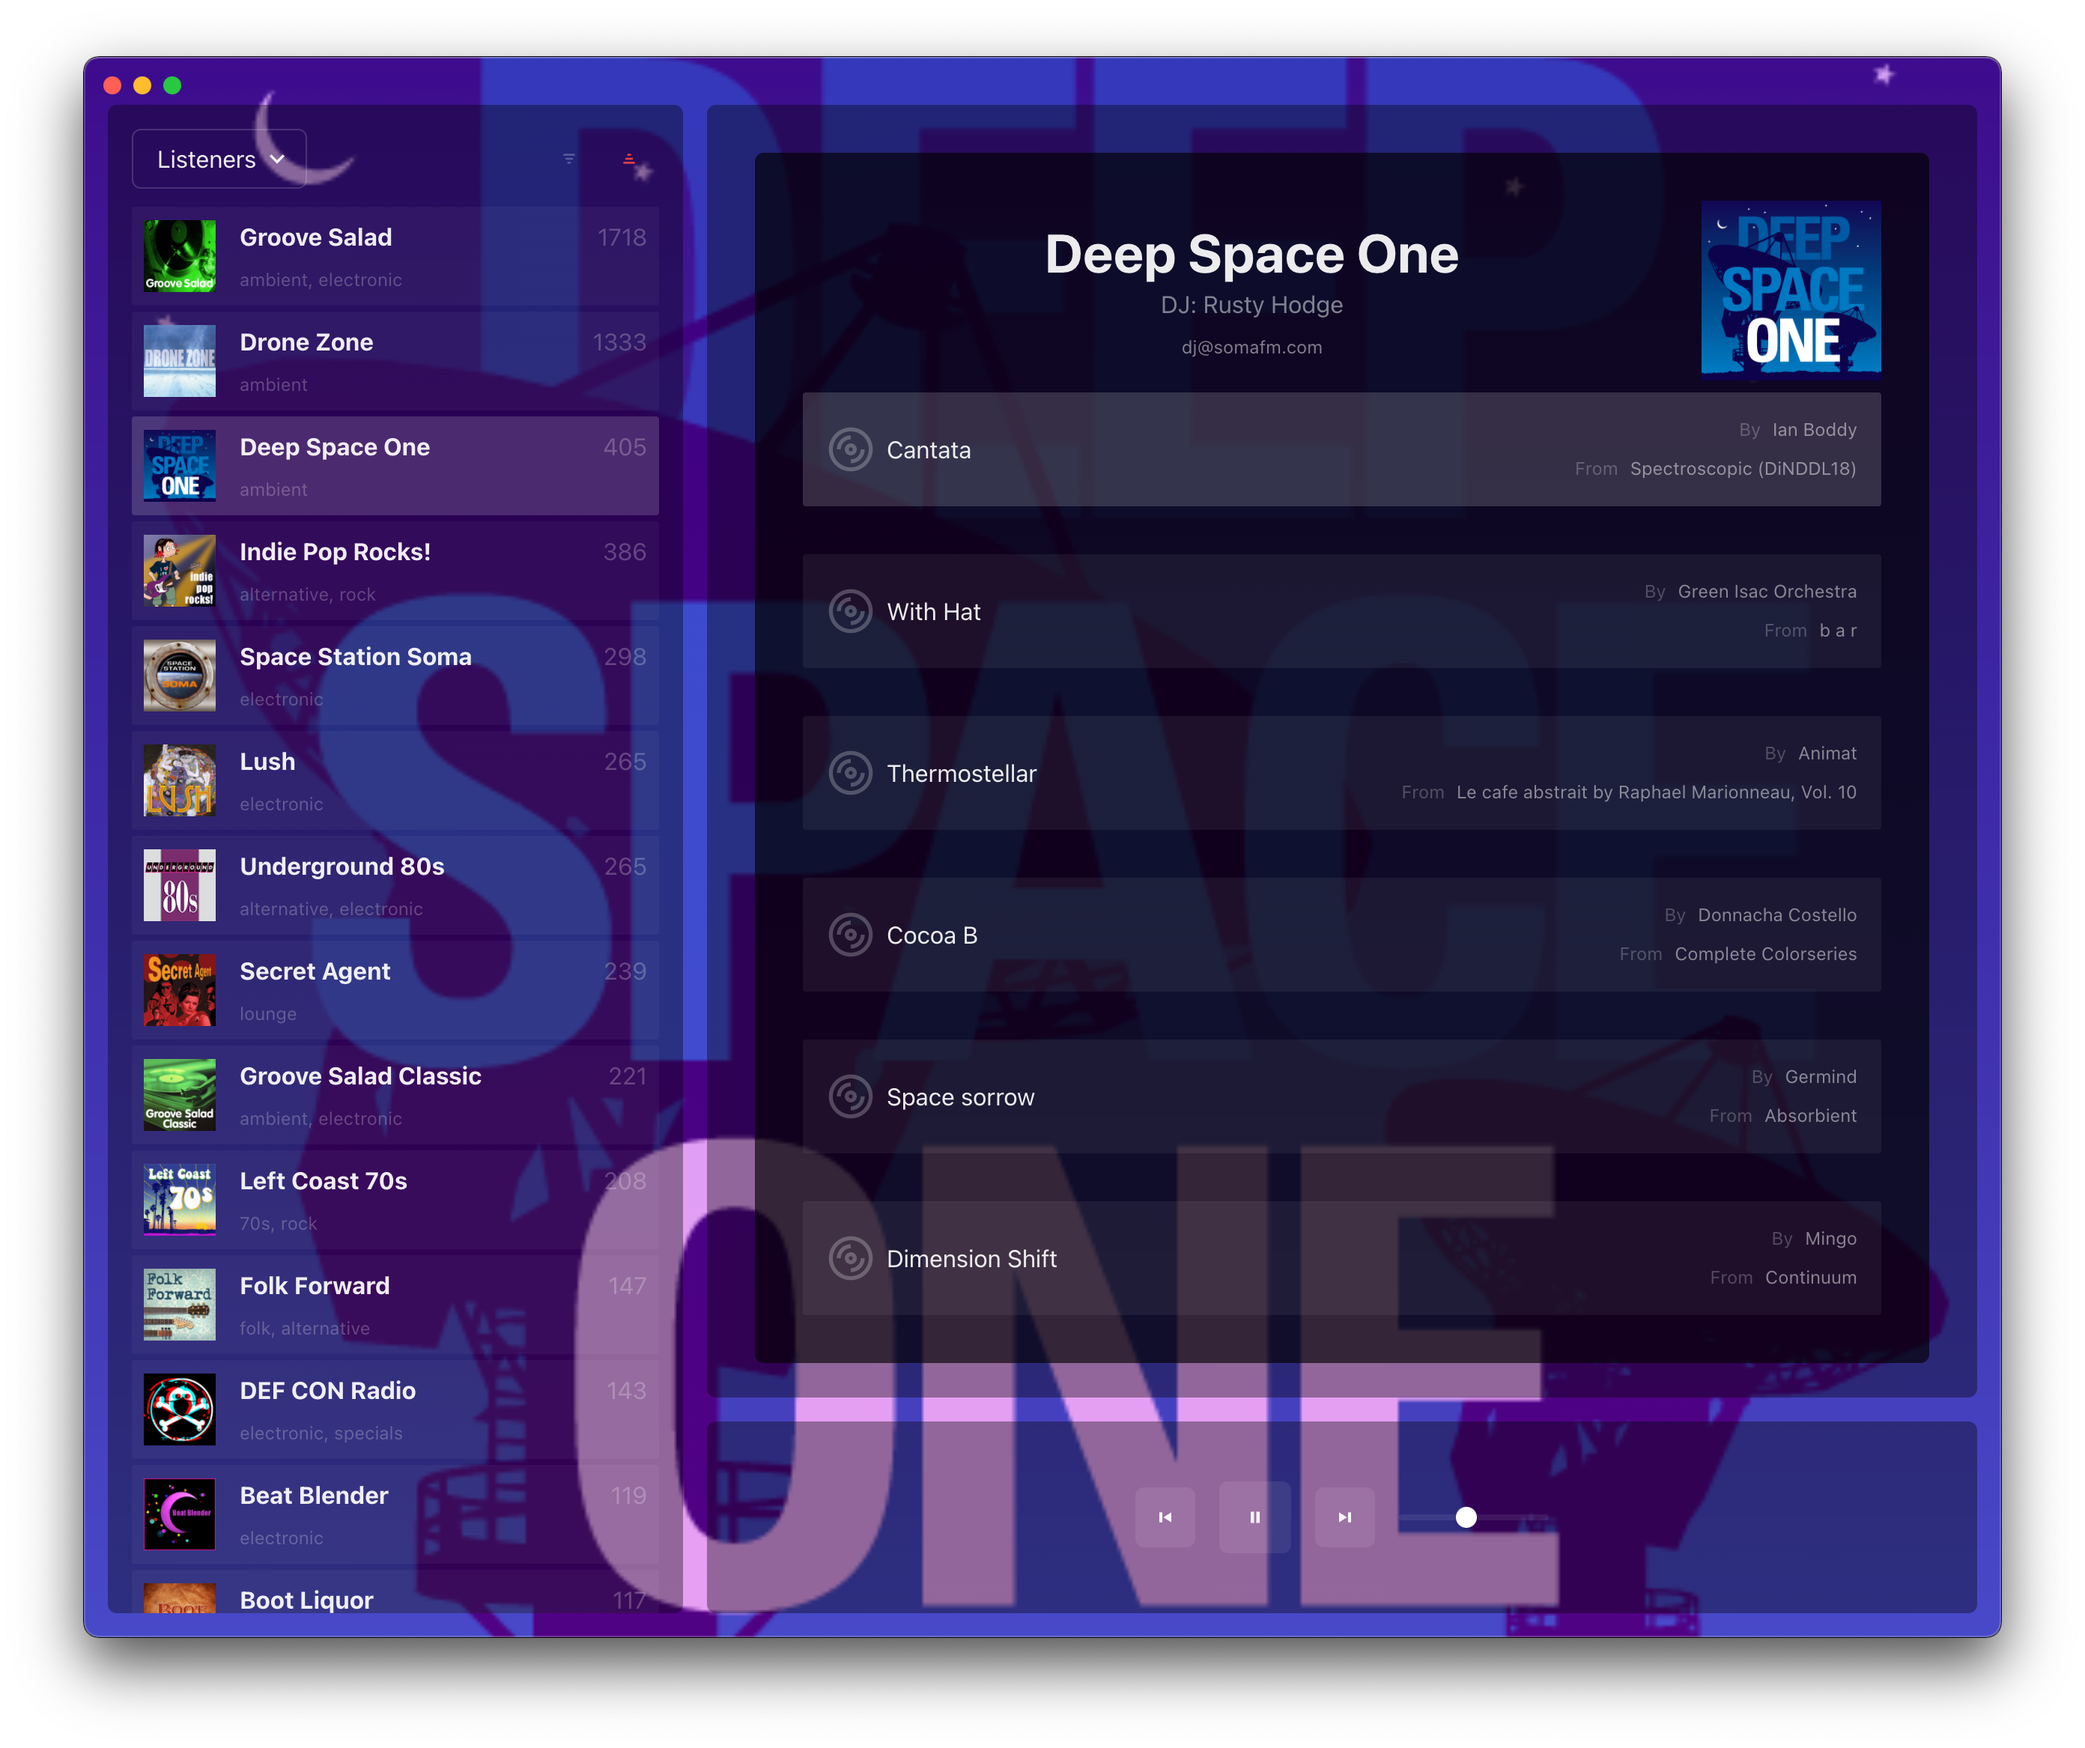
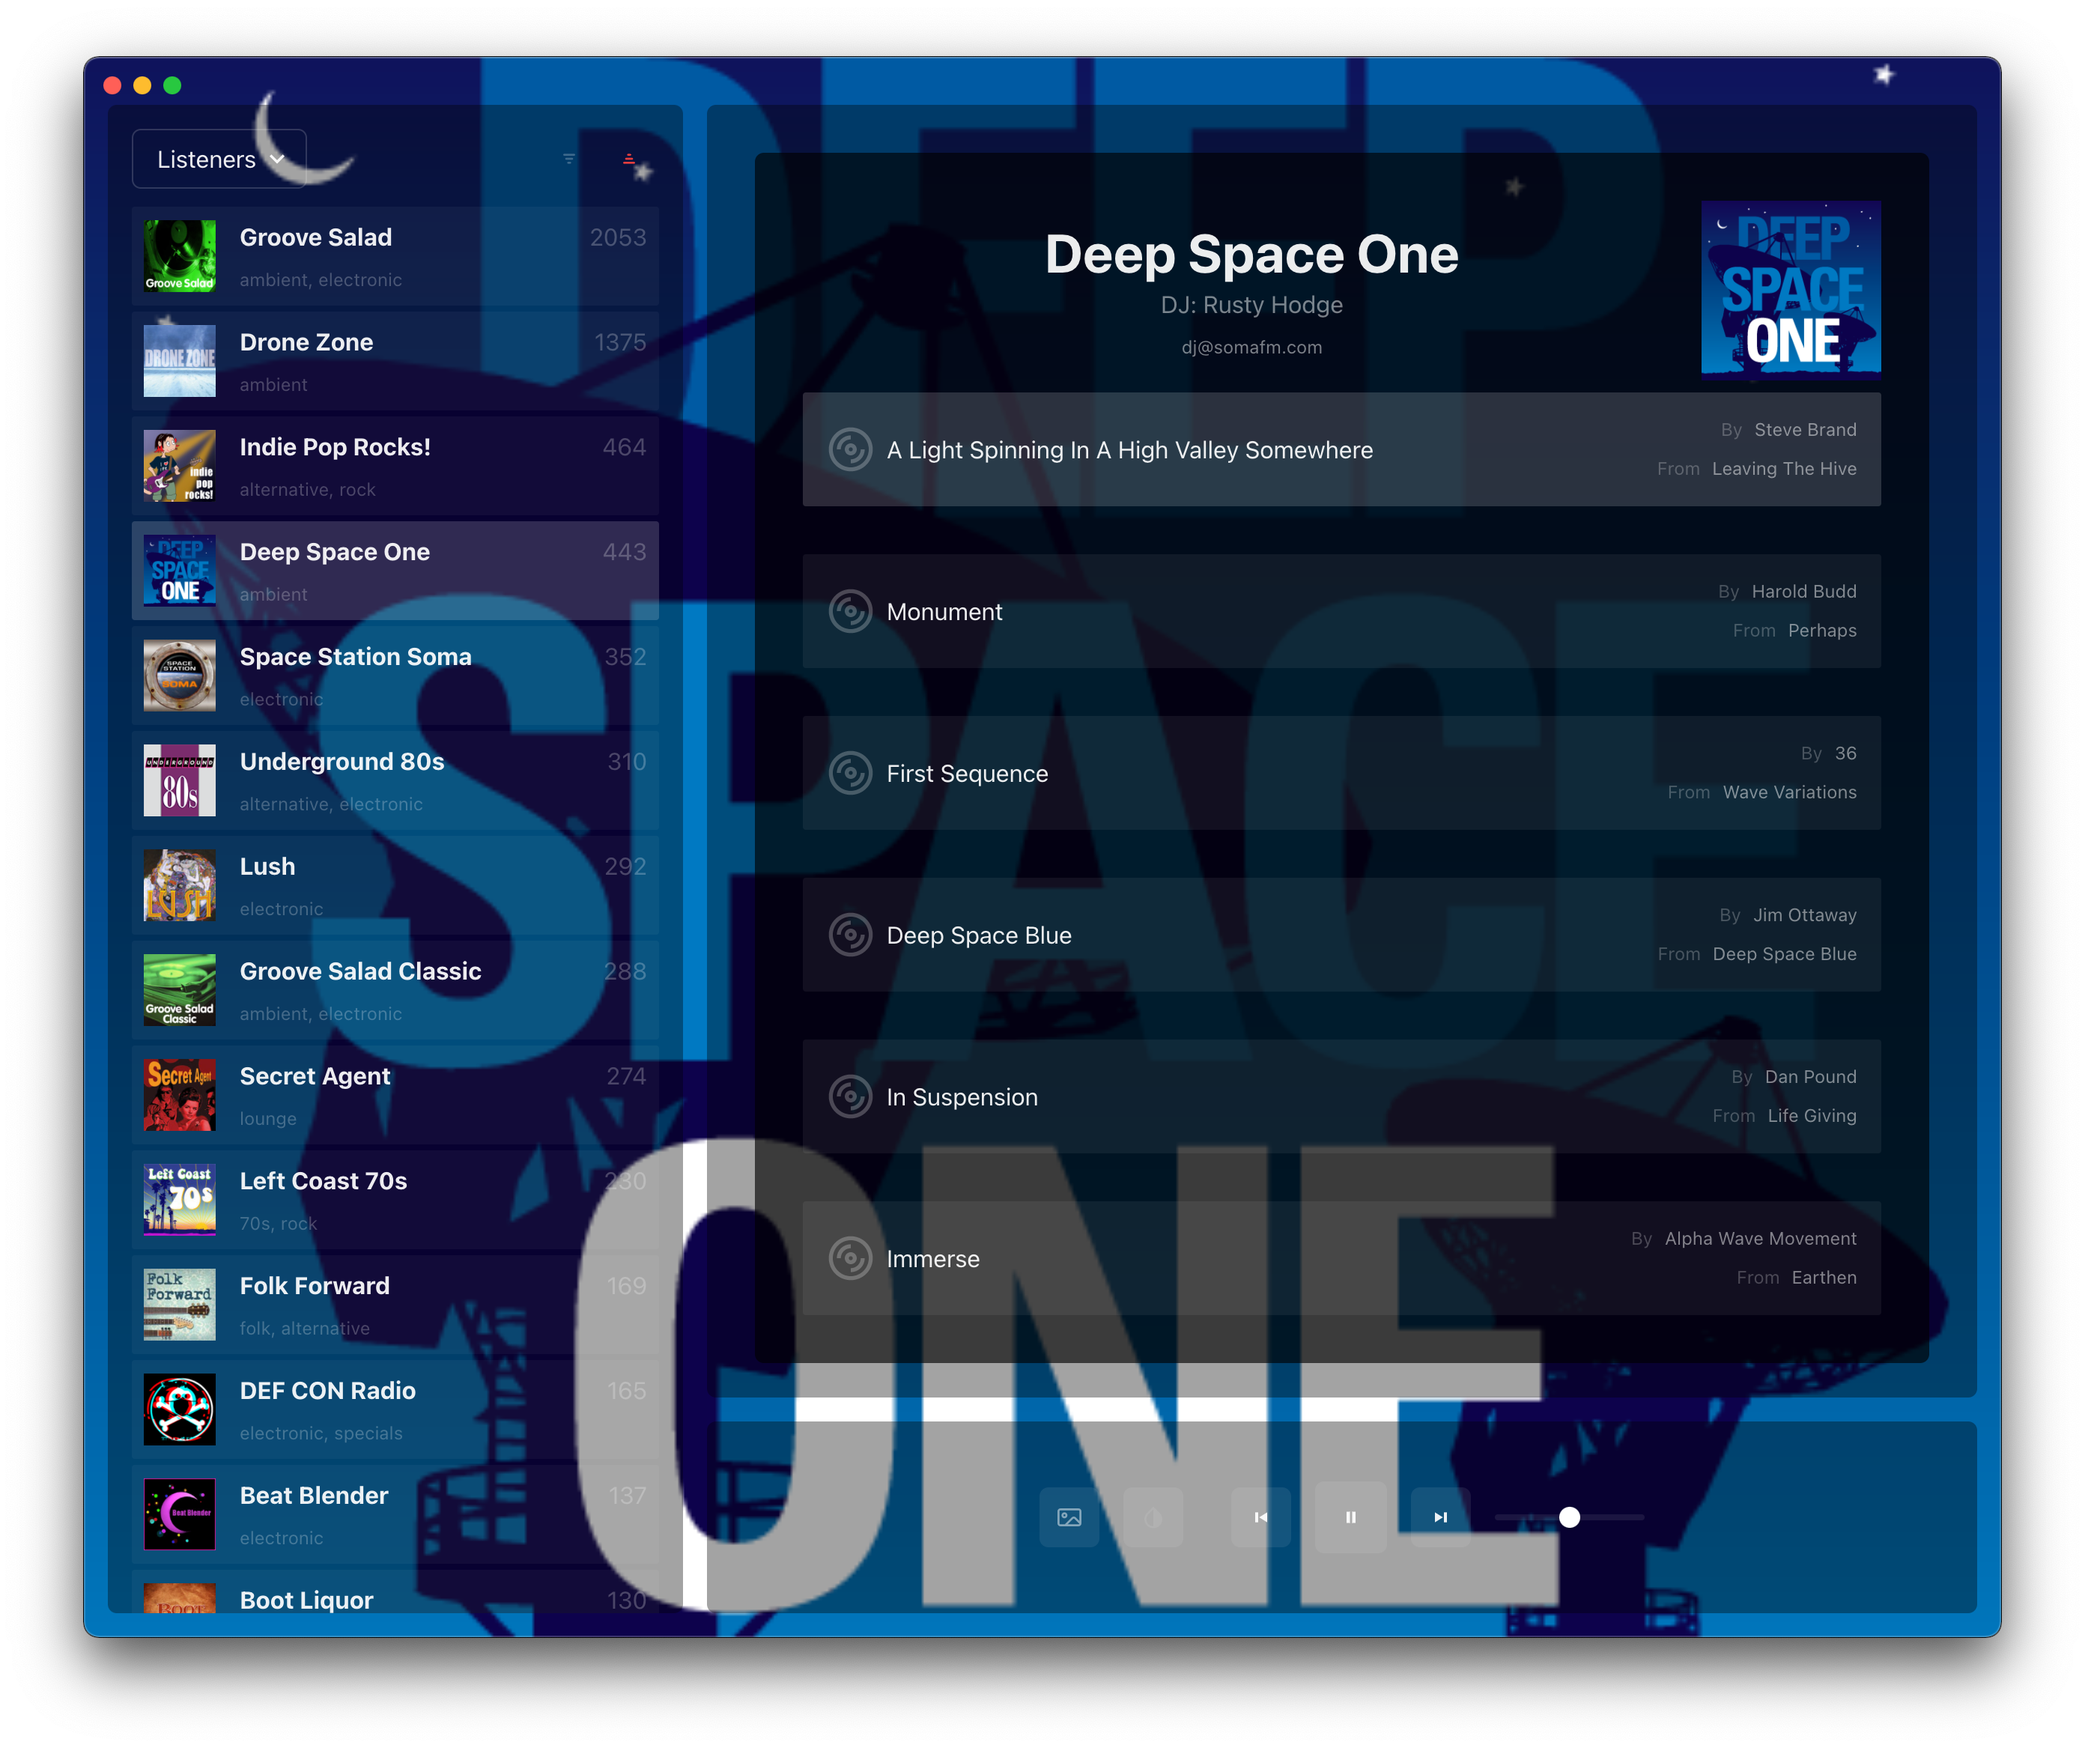
adding control of background image and party mode with storage support to reduce cpu.

diff --git a/src/components/icons.tsx b/src/components/icons.tsx
@@ -218,3 +218,43 @@ export const Disc = (props: IconProps) => (
     />
   </Icon>
 )
+export const Img = (props: IconProps) => (
+  <Icon
+    width="24"
+    height="24"
+    viewBox="0 0 24 24"
+    fill="none"
+    xmlns="http://www.w3.org/2000/svg"
+    {...props}
+  >
+    <path
+      fillRule="evenodd"
+      clipRule="evenodd"
+      d="M7 7C5.34315 7 4 8.34315 4 10C4 11.6569 5.34315 13 7 13C8.65685 13 10 11.6569 10 10C10 8.34315 8.65685 7 7 7ZM6 10C6 9.44772 6.44772 9 7 9C7.55228 9 8 9.44772 8 10C8 10.5523 7.55228 11 7 11C6.44772 11 6 10.5523 6 10Z"
+      fill="currentColor"
+    />
+    <path
+      fillRule="evenodd"
+      clipRule="evenodd"
+      d="M3 3C1.34315 3 0 4.34315 0 6V18C0 19.6569 1.34315 21 3 21H21C22.6569 21 24 19.6569 24 18V6C24 4.34315 22.6569 3 21 3H3ZM21 5H3C2.44772 5 2 5.44772 2 6V18C2 18.5523 2.44772 19 3 19H7.31374L14.1924 12.1214C15.364 10.9498 17.2635 10.9498 18.435 12.1214L22 15.6863V6C22 5.44772 21.5523 5 21 5ZM21 19H10.1422L15.6066 13.5356C15.9971 13.145 16.6303 13.145 17.0208 13.5356L21.907 18.4217C21.7479 18.7633 21.4016 19 21 19Z"
+      fill="currentColor"
+    />
+  </Icon>
+)
+export const DropInvert = (props: IconProps) => (
+  <Icon
+    width="24"
+    height="24"
+    viewBox="0 0 24 24"
+    fill="none"
+    xmlns="http://www.w3.org/2000/svg"
+    {...props}
+  >
+    <path
+      fillRule="evenodd"
+      clipRule="evenodd"
+      d="M12.0001 1.13611L5.63604 7.50002C2.12132 11.0147 2.12132 16.7132 5.63604 20.2279C7.39343 21.9853 9.69679 22.864 12.0001 22.864C12.288 22.864 12.5759 22.8502 12.8627 22.8228C14.8706 22.6306 16.8264 21.7657 18.3641 20.2279C21.8788 16.7132 21.8788 11.0147 18.3641 7.50002L12.0001 1.13611ZM7.05025 8.91423L12 3.96448L12.0001 20.864C10.2086 20.864 8.41711 20.1806 7.05025 18.8137C4.31658 16.0801 4.31658 11.6479 7.05025 8.91423Z"
+      fill="currentColor"
+    />
+  </Icon>
+)

diff --git a/src/components/player/controls.tsx b/src/components/player/controls.tsx
@@ -9,15 +9,16 @@ import {
   SliderFilledTrack,
   SliderThumb,
   SliderTrack,
+  Spacer,
 } from '@chakra-ui/react'
 import { useContext, useEffect } from 'react'
 import { MainContext } from '../../lib/context'
-import { Play, Pause, Next, Prev } from '../icons'
+import { Play, Pause, Next, Prev, Img, DropInvert } from '../icons'
 import { Player } from './player'
 
 export const Controls = (props: BoxProps) => {
   const {
-    state: { playing, station, stations, volume },
+    state: { playing, station, stations, volume, bgImage, bgParty },
     dispatch,
   } = useContext(MainContext)
 
@@ -58,6 +59,29 @@ export const Controls = (props: BoxProps) => {
         }}
       >
         <HStack spacing={4}>
+          <IconButton
+            aria-label="Toggle background image"
+            icon={<Icon as={Img} />}
+            color={bgImage ? 'whiteAlpha.600' : 'whiteAlpha.200'}
+            onClick={() => {
+              dispatch({
+                type: 'setBgImage',
+                payload: !bgImage,
+              })
+            }}
+          />
+          <IconButton
+            aria-label="Toggle party mode"
+            icon={<Icon as={DropInvert} />}
+            color={bgParty ? 'whiteAlpha.600' : 'whiteAlpha.200'}
+            onClick={() => {
+              dispatch({
+                type: 'setBgParty',
+                payload: !bgParty,
+              })
+            }}
+          />
+          <Spacer />
           <IconButton
             aria-label="Prev"
             icon={<Icon as={Prev} />}

diff --git a/src/lib/context.tsx b/src/lib/context.tsx
@@ -33,6 +33,8 @@ type MainStateType = {
   volume: number
   sortBy: string
   sortOrder: 'asc' | 'desc'
+  bgImage: boolean
+  bgParty: boolean
 }
 
 // type MainContextActions = {
@@ -108,18 +110,34 @@ const mainReducer = (state: MainStateType, action: any) => {
         ...state,
         sortOrder: action.payload,
       }
+    case 'setBgImage':
+      saveState({ bgImage: action.payload })
+      return {
+        ...state,
+        bgImage: action.payload,
+      }
+    case 'setBgParty':
+      saveState({ bgParty: action.payload })
+      return {
+        ...state,
+        bgParty: action.payload,
+      }
     default:
       return state
   }
 }
 
+const localState = getState()
+
 const initState: MainStateType = {
   stations: [],
   station: null,
-  volume: 0.5,
+  volume: localState && localState.volume ? localState.volume : 0.5,
   playing: false,
-  sortBy: 'title',
-  sortOrder: 'asc',
+  sortBy: 'listeners',
+  sortOrder: 'desc',
+  bgImage: localState && typeof localState.bgImage !== 'undefined' ? localState.bgImage : true,
+  bgParty: localState && typeof localState.bgParty !== 'undefined' ? localState.bgParty : true,
 }
 export const MainContext = createContext<{ state: MainStateType; dispatch: Dispatch<any> }>({
   state: initState,

diff --git a/src/components/layout/home.tsx b/src/components/layout/home.tsx
@@ -1,25 +1,31 @@
 import { Box, Center, HStack, VStack } from '@chakra-ui/react'
 import { useContext } from 'react'
 import { MainContext } from '../../lib/context'
-import { StationCard } from '../player/station-card'
 import { Controls } from '../player/controls'
+import { StationCard } from '../player/station-card'
 import { Side } from './side'
 
 export const Home = () => {
   const {
-    state: { playing, station },
+    state: { playing, station, bgImage, bgParty },
   } = useContext(MainContext)
   return (
     <Box
       h="full"
       w="full"
-      backgroundImage={playing && station ? station.xlimage : ''}
+      backgroundImage={playing && station && bgImage ? station.xlimage : ''}
       backgroundRepeat="no-repeat"
       backgroundSize="cover"
       bgPos="center"
       className="drag"
     >
-      <Box h="full" w="full" p={4} className={playing && station ? 'player-overlay' : ''} pt={8}>
+      <Box
+        h="full"
+        w="full"
+        p={4}
+        className={playing && station && bgParty ? 'player-overlay' : ''}
+        pt={8}
+      >
         <HStack h="full" spacing={4}>
           <Side />
           <Center flexGrow={1} h="full">

diff --git a/src/lib/storage.ts b/src/lib/storage.ts
@@ -3,6 +3,8 @@ import _ from 'lodash'
 type LocalStateType = {
   volume?: number | undefined
   station?: string | undefined
+  bgImage?: boolean | undefined
+  bgParty?: boolean | undefined
   favs?: string[] | undefined
 }
 
